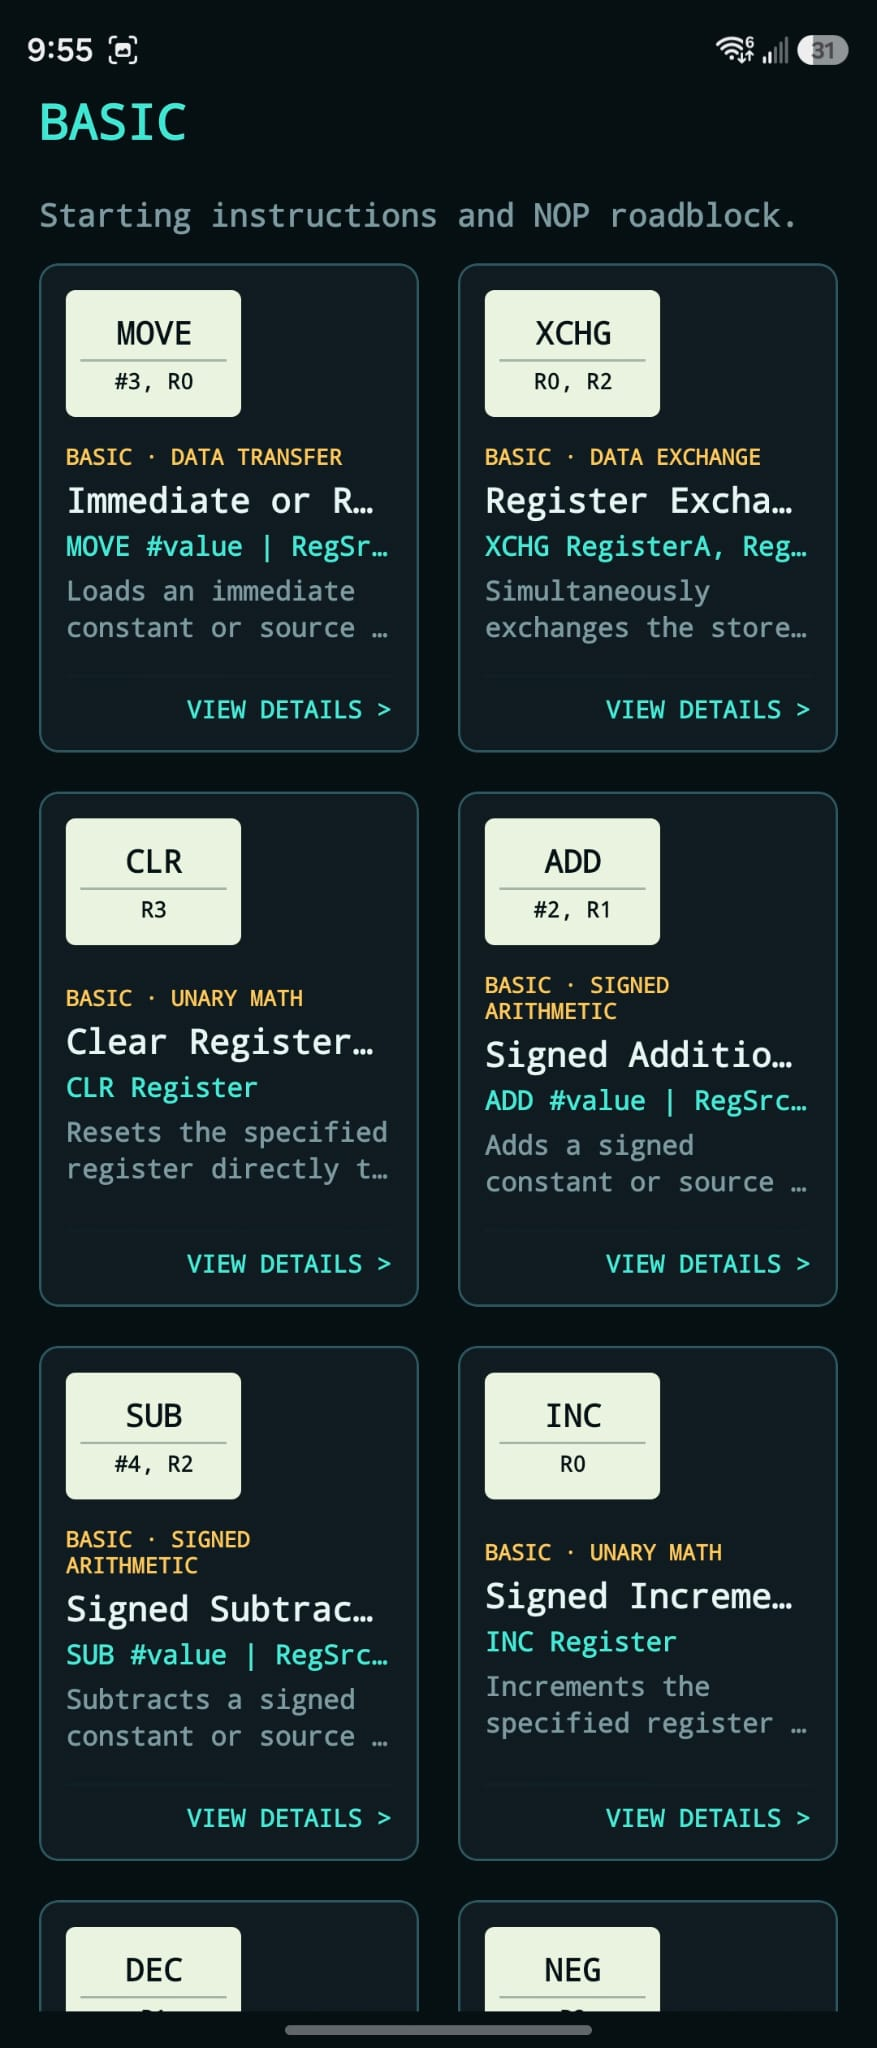
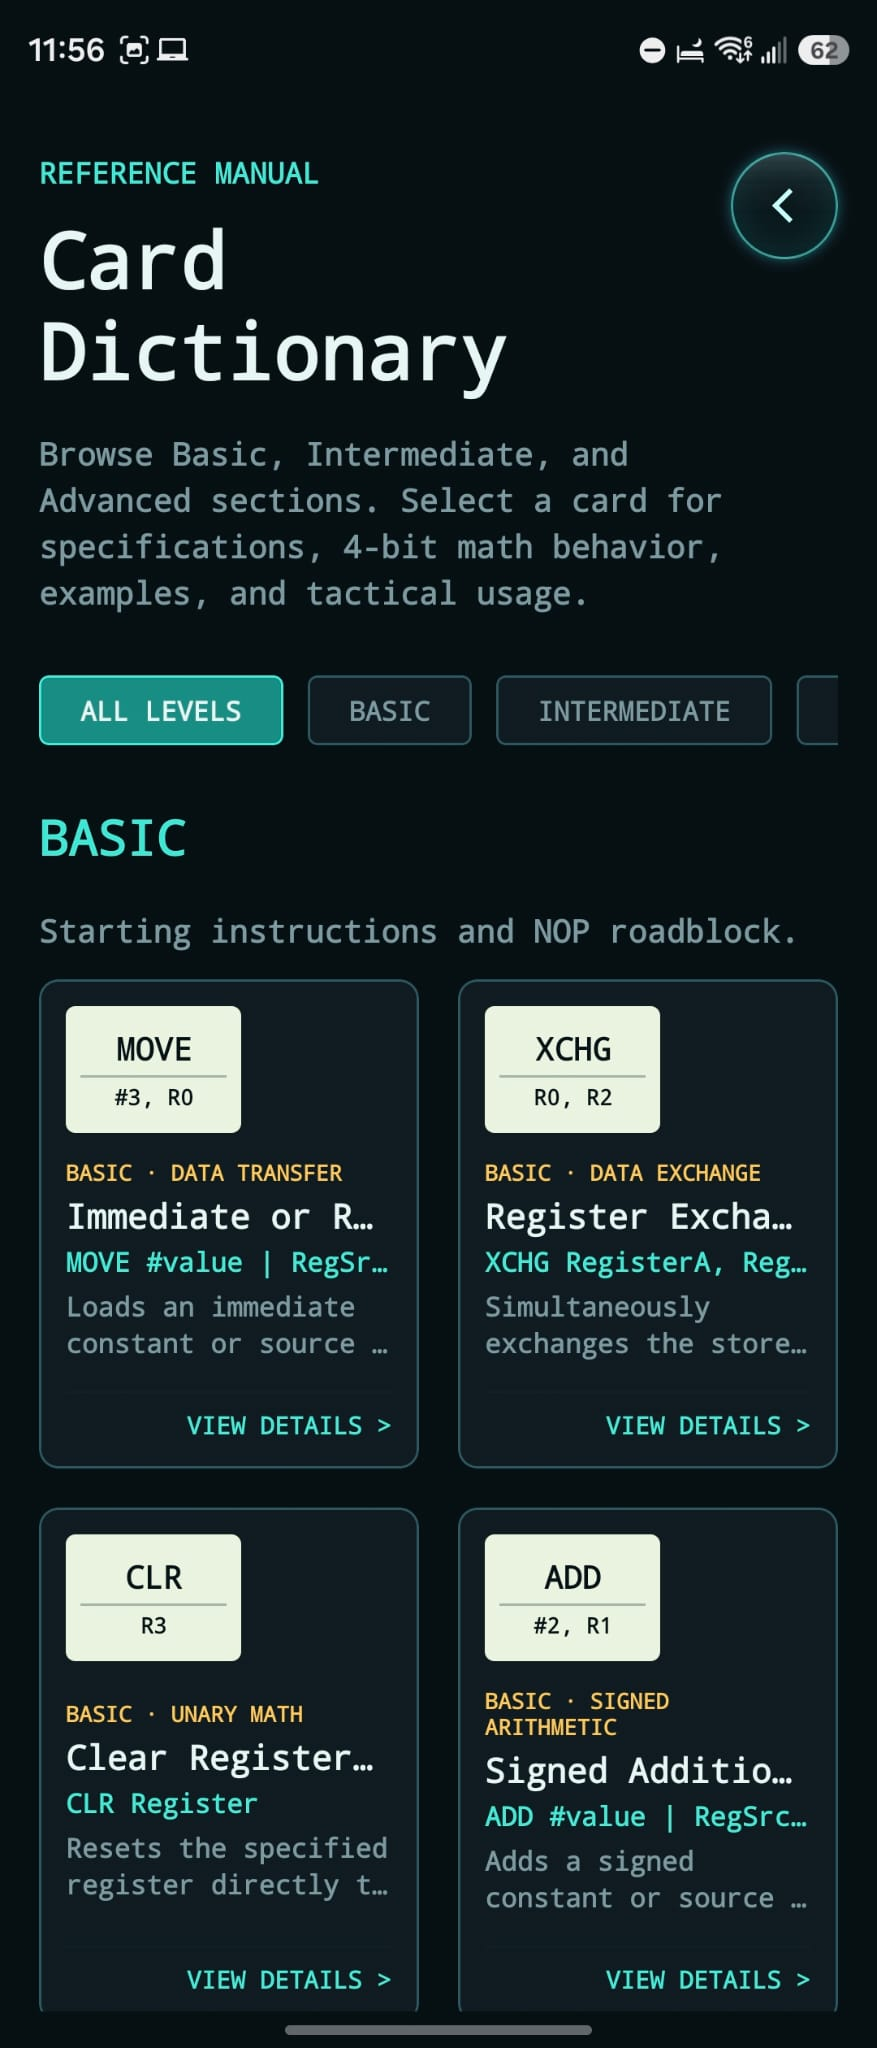
new images

diff --git a/index.html b/index.html
@@ -47,10 +47,10 @@
           <p class="hero-note">Play solo or share a device with friends.</p>
         </div>
         <figure class="hero-device">
-          <a class="screenshot-link" href="img/play_tab_2.jpeg" data-title="The shared board" data-description="Your cards and objective are private. The board and its values are shared by everyone." aria-label="Enlarge the Compiled game board screenshot">
-            <img src="img/play_tab_2.jpeg" alt="Compiled game board showing placed cards, shared values, a secret objective, and the player's hand" width="877" height="2048" fetchpriority="high">
+          <a class="screenshot-link" href="img/gameplay_middle.jpeg" data-title="The shared board" data-description="Your cards and objective are private. The board and its values are shared by everyone." aria-label="Enlarge the Compiled game board screenshot">
+            <img src="img/gameplay_middle.jpeg" alt="Compiled game board showing placed cards, shared values, a secret objective, and the player's hand" width="877" height="2048" fetchpriority="high">
           </a>
-          <figcaption>The shared board · Earlier build</figcaption>
+          <figcaption>The shared board</figcaption>
         </figure>
       </div>
     </section>
@@ -117,14 +117,23 @@
 
     <section id="screenshots" class="section">
       <div class="container">
-        <div class="section-heading"><p class="eyebrow">A closer look</p><h2>Inside the app.</h2><p>Screenshots from an earlier build. Tap to enlarge.</p></div>
-        <div class="screenshot-gallery">
-          <figure><a class="screenshot-link" href="img/main_menu.jpeg" data-title="Main menu" data-description="Find the game modes, tutorial, card dictionary, and settings." aria-label="Enlarge the main menu screenshot"><img src="img/main_menu.jpeg" alt="Compiled main menu" width="877" height="2048" loading="lazy"></a><figcaption>Main menu</figcaption></figure>
-          <figure><a class="screenshot-link" href="img/play_tab_1.jpeg" data-title="Starting a match" data-description="An open board and a private hand of cards at the start of a match." aria-label="Enlarge the starting board screenshot"><img src="img/play_tab_1.jpeg" alt="An empty Compiled board and the player's starting cards" width="877" height="2048" loading="lazy"></a><figcaption>Starting a match</figcaption></figure>
-          <figure><a class="screenshot-link" href="img/play_tab_2.jpeg" data-title="The shared board" data-description="Placed cards change the shared values as each player works toward a secret objective." aria-label="Enlarge the shared board screenshot"><img src="img/play_tab_2.jpeg" alt="A Compiled match with cards placed on the board" width="877" height="2048" loading="lazy"></a><figcaption>The shared board</figcaption></figure>
-          <figure><a class="screenshot-link" href="img/passnplay.jpeg" data-title="Pass and play" data-description="Set up players for a match on one shared device." aria-label="Enlarge the pass and play screenshot"><img src="img/passnplay.jpeg" alt="Compiled pass and play setup" width="877" height="2048" loading="lazy"></a><figcaption>Pass and play</figcaption></figure>
-          <figure><a class="screenshot-link" href="img/tutorial_section.jpeg" data-title="Interactive lessons" data-description="Learn the game step by step and keep track of completed lessons." aria-label="Enlarge the tutorial screenshot"><img src="img/tutorial_section.jpeg" alt="Compiled tutorial lesson selection" width="877" height="2048" loading="lazy"></a><figcaption>Interactive lessons</figcaption></figure>
+        <div class="section-heading"><p class="eyebrow">A closer look</p><h2 id="screenshots-title">Inside the app.</h2><p>Explore the board, game modes, and more. Tap to enlarge.</p></div>
+        <div class="screenshot-carousel" role="region" aria-label="App screenshots">
+          <button class="carousel-arrow carousel-previous" type="button" aria-label="Previous screenshot" aria-controls="screenshot-gallery" hidden><span aria-hidden="true">&lt;</span></button>
+        <div id="screenshot-gallery" class="screenshot-gallery">
+          <figure><a class="screenshot-link" href="img/menu.jpeg" data-title="Main menu" data-description="Find the game modes, tutorial, card dictionary, profile, and settings." aria-label="Enlarge the main menu screenshot"><img src="img/menu.jpeg" alt="Compiled main menu" width="877" height="2048" loading="lazy"></a><figcaption>Main menu</figcaption></figure>
+          <figure><a class="screenshot-link" href="img/gameplay_start.jpeg" data-title="Starting a match" data-description="An open board and a private hand of cards at the start of a match." aria-label="Enlarge the starting board screenshot"><img src="img/gameplay_start.jpeg" alt="An empty Compiled board and the player's starting cards" width="877" height="2048" loading="lazy"></a><figcaption>Starting a match</figcaption></figure>
+          <figure><a class="screenshot-link" href="img/gameplay_middle.jpeg" data-title="The shared board" data-description="Placed cards change the shared values as each player works toward a secret objective." aria-label="Enlarge the shared board screenshot"><img src="img/gameplay_middle.jpeg" alt="A Compiled match with cards placed on the board" width="877" height="2048" loading="lazy"></a><figcaption>The shared board</figcaption></figure>
+          <figure><a class="screenshot-link" href="img/singleplayer.jpeg" data-title="Singleplayer" data-description="Continue your rated climb or set up a custom game." aria-label="Enlarge the singleplayer screenshot"><img src="img/singleplayer.jpeg" alt="Compiled singleplayer menu with rated mode and custom game options" width="877" height="2048" loading="lazy"></a><figcaption>Singleplayer</figcaption></figure>
+          <figure><a class="screenshot-link" href="img/customgame.jpeg" data-title="Custom game" data-description="Build your player roster with human players and computer rivals, and choose their difficulty." aria-label="Enlarge the custom game screenshot"><img src="img/customgame.jpeg" alt="Compiled player roster with human and CPU choices and AI difficulty settings" width="877" height="2048" loading="lazy"></a><figcaption>Custom game</figcaption></figure>
+          <figure><a class="screenshot-link" href="img/tutorial.jpeg" data-title="Interactive lessons" data-description="Learn the game step by step and keep track of completed lessons." aria-label="Enlarge the tutorial screenshot"><img src="img/tutorial.jpeg" alt="Compiled tutorial lesson selection and progress" width="877" height="2048" loading="lazy"></a><figcaption>Interactive lessons</figcaption></figure>
           <figure><a class="screenshot-link" href="img/dictionary.jpeg" data-title="Card dictionary" data-description="Browse the cards and open their explanations." aria-label="Enlarge the card dictionary screenshot"><img src="img/dictionary.jpeg" alt="Compiled card dictionary" width="877" height="2048" loading="lazy"></a><figcaption>Card dictionary</figcaption></figure>
+          <figure><a class="screenshot-link" href="img/register_formats.jpeg" data-title="Number formats" data-description="Compare the board's values in signed decimal, unsigned decimal, hexadecimal, and binary." aria-label="Enlarge the number formats screenshot"><img src="img/register_formats.jpeg" alt="Compiled number formats panel showing register values in four representations" width="877" height="2048" loading="lazy"></a><figcaption>Number formats</figcaption></figure>
+          <figure><a class="screenshot-link" href="img/profile.jpeg" data-title="Your rated profile" data-description="Follow your rated level, match record, and win rate." aria-label="Enlarge the profile screenshot"><img src="img/profile.jpeg" alt="Compiled profile showing rated level and match statistics" width="877" height="2048" loading="lazy"></a><figcaption>Your rated profile</figcaption></figure>
+          <figure><a class="screenshot-link" href="img/settings.jpeg" data-title="Settings" data-description="Choose your card set, number display, animation speed, sound, and vibration." aria-label="Enlarge the settings screenshot"><img src="img/settings.jpeg" alt="Compiled settings for cards, number formats, animation speed, audio, and haptics" width="877" height="2048" loading="lazy"></a><figcaption>Settings</figcaption></figure>
+        </div>
+          <button class="carousel-arrow carousel-next" type="button" aria-label="Next screenshot" aria-controls="screenshot-gallery" hidden><span aria-hidden="true">&gt;</span></button>
+          <p class="carousel-status" aria-live="polite" aria-atomic="true" hidden></p>
         </div>
       </div>
     </section>

diff --git a/site.js b/site.js
@@ -1,4 +1,43 @@
 document.addEventListener("DOMContentLoaded", () => {
+  const carousel = document.querySelector(".screenshot-carousel");
+  if (carousel) {
+    const slides = Array.from(carousel.querySelectorAll("figure"));
+    const previous = carousel.querySelector(".carousel-previous");
+    const next = carousel.querySelector(".carousel-next");
+    const status = carousel.querySelector(".carousel-status");
+    let current = 0;
+
+    if (slides.length && previous && next && status) {
+      const showSlide = (index) => {
+        current = (index + slides.length) % slides.length;
+        slides.forEach((slide, position) => {
+          slide.hidden = position !== current;
+        });
+        const active = slides[current];
+        active.querySelector("img").loading = "eager";
+        status.textContent = `${current + 1} / ${slides.length} · ${active.querySelector("figcaption").textContent}`;
+      };
+
+      carousel.classList.add("is-carousel");
+      carousel.setAttribute("aria-roledescription", "carousel");
+      previous.hidden = next.hidden = status.hidden = false;
+      showSlide(0);
+      previous.addEventListener("click", () => showSlide(current - 1));
+      next.addEventListener("click", () => showSlide(current + 1));
+      carousel.addEventListener("keydown", (event) => {
+        if (event.altKey || event.ctrlKey || event.metaKey || event.shiftKey) return;
+        if (event.key === "ArrowLeft" || event.key === "ArrowRight") {
+          event.preventDefault();
+          showSlide(current + (event.key === "ArrowRight" ? 1 : -1));
+          // Keep keyboard focus visible when navigating from the screenshot link.
+          if (event.target.closest(".screenshot-link")) {
+            slides[current].querySelector("a").focus({ preventScroll: true });
+          }
+        }
+      });
+    }
+  }
+
   const dialog = document.getElementById("screenshot-dialog");
   const dialogImage = document.getElementById("dialog-img");
   const dialogTitle = document.getElementById("dialog-title");

diff --git a/style.css b/style.css
@@ -90,9 +90,18 @@ h3 { font-size: 1.25rem; letter-spacing: -0.02em; }
 .feature-list article { padding-bottom: 1.6rem; border-bottom: 1px solid var(--line); margin-bottom: 1.6rem; }
 .feature-list article:last-child { margin-bottom: 0; padding-bottom: 0; border: 0; }
 
-.screenshot-gallery { display: grid; grid-template-columns: repeat(6, minmax(0, 1fr)); gap: 1.2rem; }
+.screenshot-gallery { display: grid; grid-template-columns: repeat(5, minmax(0, 1fr)); gap: 1.2rem; }
 .screenshot-gallery figure { min-width: 0; margin: 0; }
 .screenshot-gallery figcaption { font-size: 0.875rem; margin-top: 0.8rem; color: var(--muted); }
+.screenshot-carousel.is-carousel { display: grid; grid-template-columns: 48px minmax(0, 280px) 48px; justify-content: center; align-items: center; gap: 1rem clamp(0.75rem, 4vw, 3rem); }
+.is-carousel .screenshot-gallery { display: block; }
+.is-carousel .screenshot-gallery .screenshot-link { max-width: none; }
+.is-carousel .screenshot-gallery figcaption { text-align: center; }
+.carousel-arrow { display: grid; place-items: center; width: 48px; height: 48px; margin-bottom: 2.3rem; padding: 0; border: 1px solid var(--accent); border-radius: 5px; background: var(--panel); color: var(--accent); font-family: var(--mono); font-size: 1.75rem; line-height: 1; cursor: pointer; }
+.carousel-arrow:hover { background: var(--accent); color: var(--bg); }
+.carousel-arrow:active { background: #99ecdf; }
+.carousel-arrow[hidden], .carousel-status[hidden] { display: none; }
+.carousel-status { grid-column: 1 / -1; margin: 0; text-align: center; font-family: var(--mono); font-size: 0.8125rem; }
 .download { border-top: 1px solid var(--line); background: var(--panel); padding-block: 3.5rem; }
 .download-layout { display: flex; justify-content: space-between; align-items: center; gap: 2rem; }
 .download h2 { font-size: clamp(1.75rem, 3vw, 2.4rem); }

diff --git a/README.md b/README.md
@@ -9,7 +9,7 @@ Informational website for **Compiled™**, the Android strategy board game. Play
 - Short introductions to rated singleplayer, custom games, and pass and play.
 - Basic, Intermediate, and Advanced sets with 9, 20, and 32 card types.
 - Twenty-one interactive lessons, the card dictionary, rated profiles, and player preferences.
-- Six existing app screenshots, labeled as an earlier build, with an accessible full-size viewer.
+- Ten updated app screenshots in a centered carousel with previous/next buttons, keyboard arrow navigation, and an accessible full-size viewer. Without JavaScript, all screenshots remain available in a gallery.
 - The Google Play store link, a free online version on itch.io, contact address, current local-storage information in both privacy pages, and the app's copyright notice.
 
 Keep the homepage brief and approachable. Detailed rules, turn limits, rating formulas, deck weighting, instruction syntax, CPU internals, and development details belong in the app and its documentation.
@@ -38,4 +38,4 @@ When app features change, verify the homepage against these Android source files
 - `src/navigation/AppNavigator.tsx`, `src/utils/storage.ts`, and `src/utils/ratedStorage.ts`: saved settings, lesson progress, profiles, and rated matches.
 - `app.json` and `src/components/CopyrightNotice.tsx`: version and attribution.
 
-The Google Play copy treats the app as released, as directed by the owner. Replace screenshots only with actual app captures; remove the earlier-build labels when current captures are available.
+The Google Play copy treats the app as released, as directed by the owner. Replace screenshots only with actual app captures. The current screenshots were supplied on September 23, 2026.
